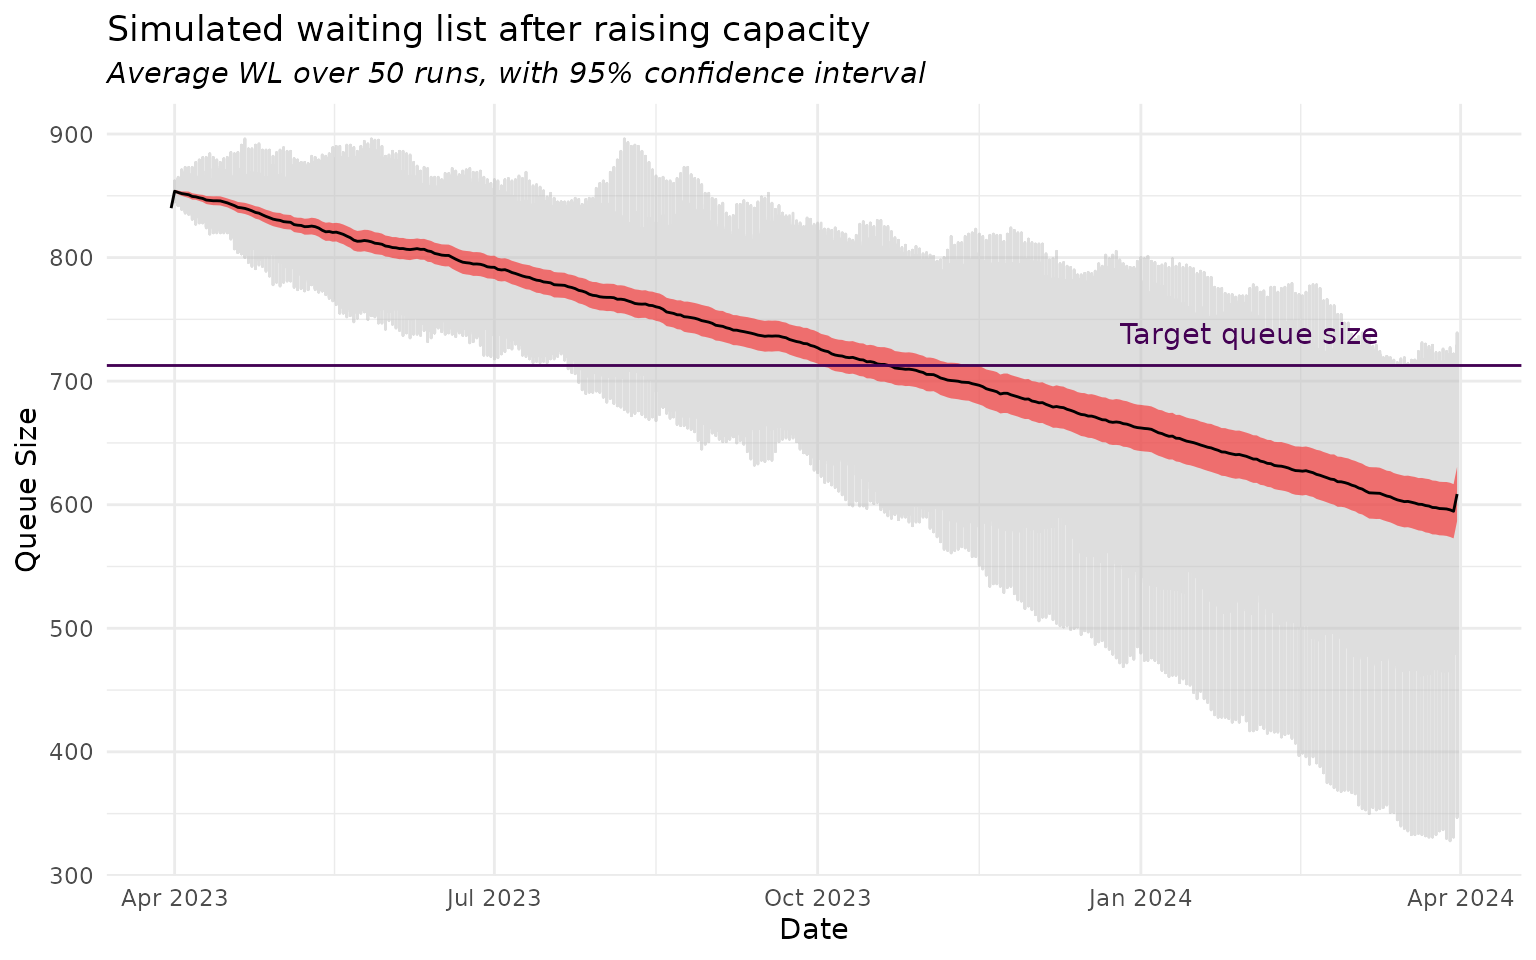
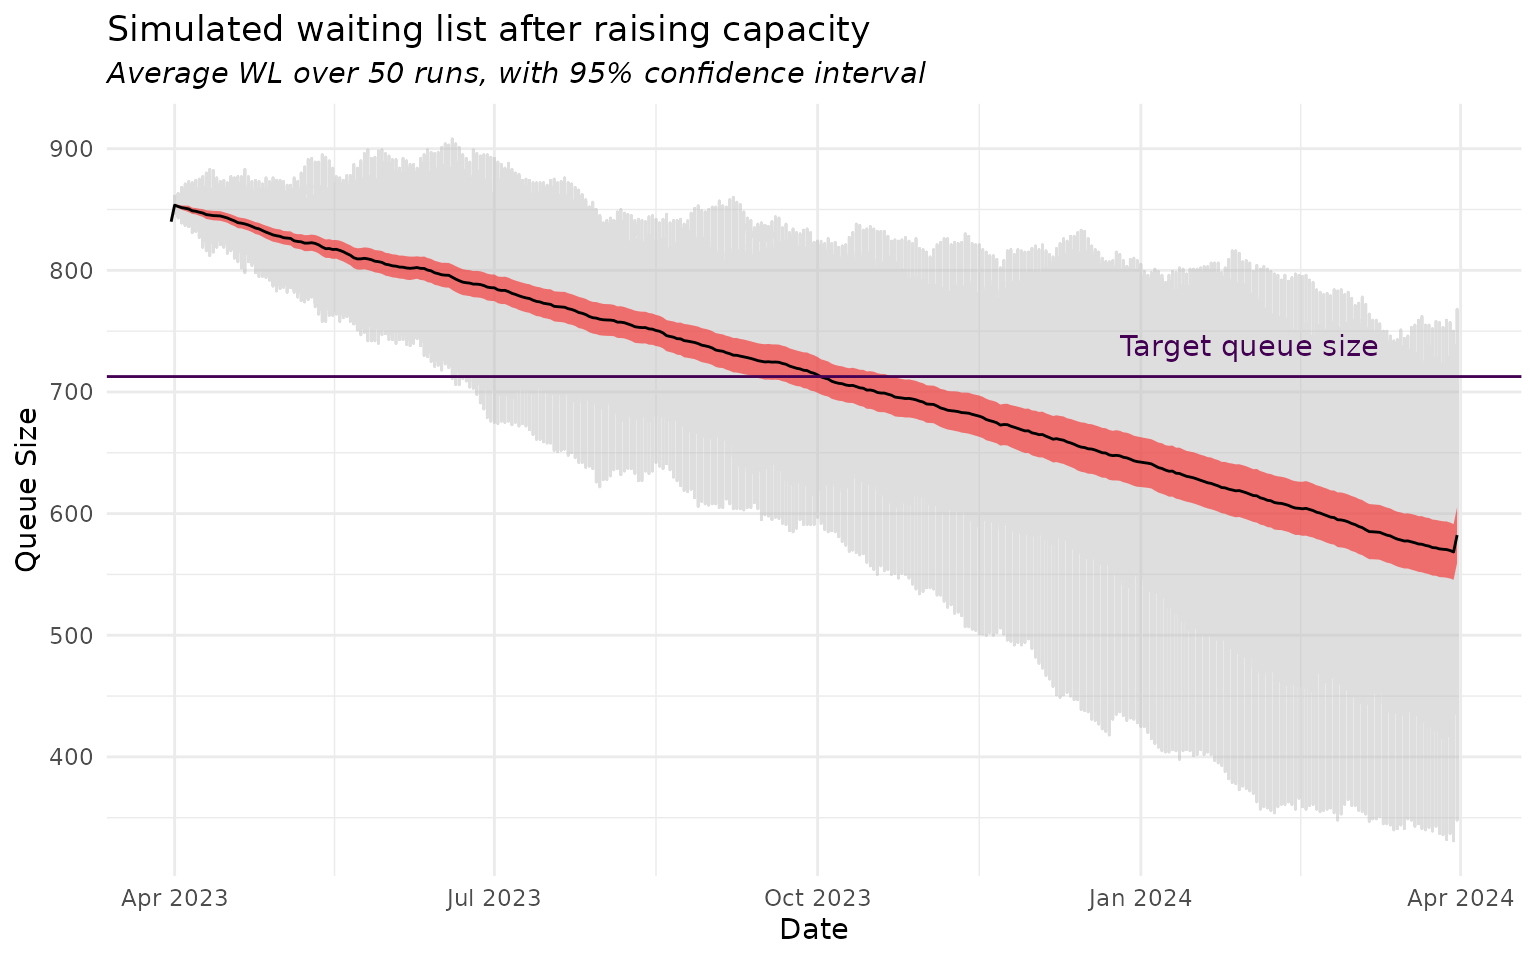
Deploying to gh-pages from @ chrismainey/NHSRwaitinglist@e696ed84c231d540f23b610eff5aae3ad054f95b 🚀

diff --git a/articles/waiting_list_sim.html b/articles/waiting_list_sim.html
@@ -282,7 +282,7 @@ plot the waiting list.</p>
 <code class="sourceCode R"><span><span class="va">reduced_demand_wl</span> <span class="op">&lt;-</span></span>
 <span>  <span class="fu"><a href="../reference/wl_simulator.html">wl_simulator</a></span><span class="op">(</span>start_date <span class="op">=</span> <span class="fu"><a href="https://rdrr.io/r/base/as.Date.html" class="external-link">as.Date</a></span><span class="op">(</span><span class="st">"2023-04-01"</span><span class="op">)</span>,</span>
 <span>               end_date <span class="op">=</span> <span class="fu"><a href="https://rdrr.io/r/base/as.Date.html" class="external-link">as.Date</a></span><span class="op">(</span><span class="st">"2024-03-31"</span><span class="op">)</span>,</span>
-<span>               demand <span class="op">=</span> <span class="fl">75</span>,</span>
+<span>               demand <span class="op">=</span> <span class="fl">77</span>,</span>
 <span>               capacity <span class="op">=</span> <span class="fl">80</span>,</span>
 <span>               waiting_list <span class="op">=</span> <span class="va">current_wl1</span><span class="op">)</span></span>
 <span></span>
@@ -290,12 +290,12 @@ plot the waiting list.</p>
 <span></span>
 <span><span class="fu"><a href="https://rdrr.io/r/utils/head.html" class="external-link">tail</a></span><span class="op">(</span><span class="va">reduced_demand_queue</span><span class="op">)</span></span>
 <span><span class="co">#&gt;          dates queue_size</span></span>
-<span><span class="co">#&gt; 362 2024-03-26        553</span></span>
-<span><span class="co">#&gt; 363 2024-03-27        554</span></span>
-<span><span class="co">#&gt; 364 2024-03-28        552</span></span>
-<span><span class="co">#&gt; 365 2024-03-29        554</span></span>
-<span><span class="co">#&gt; 366 2024-03-30        549</span></span>
-<span><span class="co">#&gt; 367 2024-03-31        558</span></span></code></pre></div>
+<span><span class="co">#&gt; 362 2024-03-26        654</span></span>
+<span><span class="co">#&gt; 363 2024-03-27        655</span></span>
+<span><span class="co">#&gt; 364 2024-03-28        653</span></span>
+<span><span class="co">#&gt; 365 2024-03-29        656</span></span>
+<span><span class="co">#&gt; 366 2024-03-30        652</span></span>
+<span><span class="co">#&gt; 367 2024-03-31        661</span></span></code></pre></div>
 <p>To visualise this, we will plot the queue against time, marking the
 target queue size.</p>
 <div class="sourceCode" id="cb8"><pre class="downlit sourceCode r">
